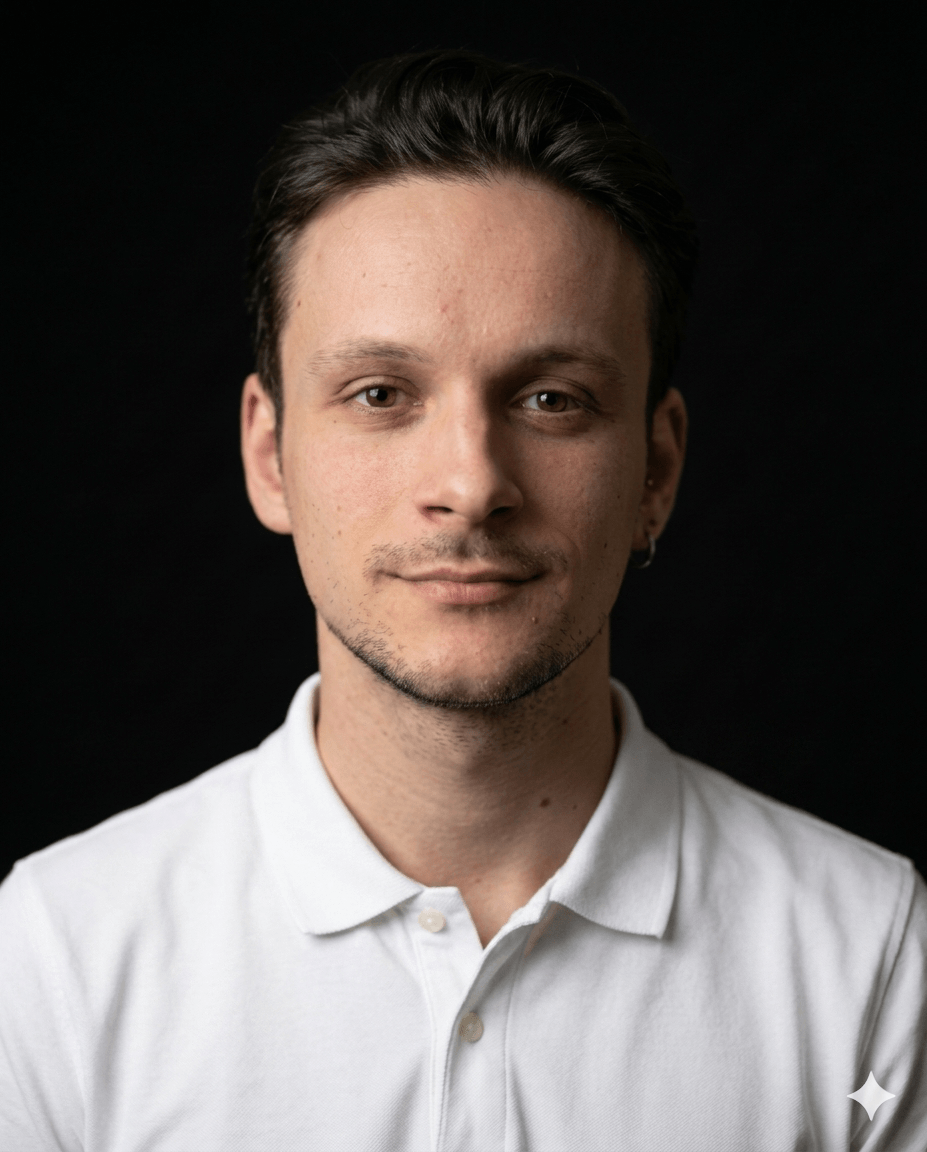
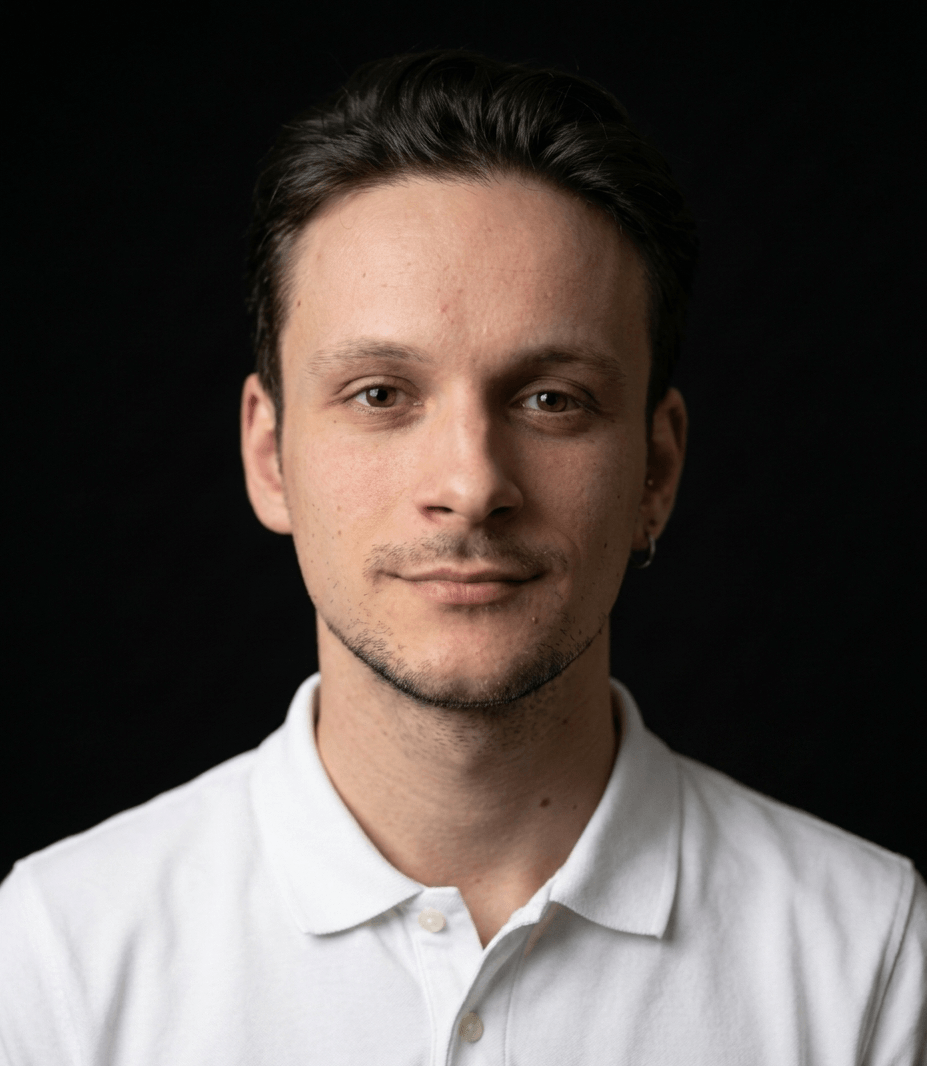
up

Changed region(s): [[0.0, 0.0619, 1.0, 1.0], [0.0302, 0.8049, 0.1812, 1.0]]

diff --git a/src/pages/about/AboutPage.jsx b/src/pages/about/AboutPage.jsx
@@ -10,18 +10,18 @@ export const AboutPage = () => {
             <main className="Main-aboutContent">
                 <img className="Main-aboutImg" src="/imgs/img-about-me.png" alt="" />
                 <p className="Main-aboutText">
-                ¡Hola! Soy Jaime, perfil con experiencia en <strong>tecnología y negocio</strong>, combinando <strong>desarrollo web (stack MERN) y soluciones digitales</strong>.<br />
-                Me caracterizo por un enfoque analítico y orientado a la resolución de problemas. He trabajado directamente con clientes B2B y B2C, entendiendo sus necesidades y proponiendo soluciones digitales adaptadas, lo que me ha dado una visión práctica de cómo la tecnología impacta en procesos y resultados.<br />
-                Interesado en la consultoría digital, aporto una visión técnica combinada con una buena comprensión de las necesidades del cliente y del negocio.</p><br />
+                ¡Hola! Soy Jaime y tengo un perfil profesional con experiencia en <strong>tecnología y negocio</strong>, combinando <strong>desarrollo web (stack MERN) y soluciones digitales</strong>.
+                Me caracterizo por un enfoque analítico y orientado a la resolución de problemas. He trabajado directamente con clientes B2B y B2C, entendiendo sus necesidades y proponiendo soluciones digitales adaptadas, lo que me ha dado una visión práctica de cómo la tecnología impacta en procesos y resultados.<br /><br />
+                <strong>Interesado en la consultoría digital</strong>, aporto una visión técnica combinada con una buena comprensión de las necesidades del cliente y del negocio.</p><br />
                 <div>
                     <p className="Main-aboutTitle">De las ideas al código...</p>
-                    <p className="Main-aboutText">Mi camino profesional comenzó en el ámbito de la creatividad y la comunicación. Tras graduarme en Publicidad y Relaciones Públicas, trabajé en un proyecto de agencia de comunicación, donde descubrí el poder de convertir ideas en marcas. Más tarde, en el CEEI de Castellón, me acerqué al ecosistema startup, entendiendo cómo la tecnología y la estrategia digital pueden transformar negocios desde su base.</p><br />
-                    <p className="Main-aboutText">Mi paso por Declarando Asesores fue clave para desarrollar una visión más analítica y orientada al cliente. Como SDR y Account Executive, aprendí a detectar necesidades reales, ofrecer soluciones y entender el valor de una experiencia digital funcional y bien diseñada. Fue allí donde nació mi interés por crear herramientas y no solo comercializarlas.</p><br />
-                    <p className="Main-aboutText">Ese impulso me llevó a formarme como desarrollador web, combinando mi perfil creativo con habilidades técnicas. En el CEI Valencia aprendí a construir aplicaciones completas, desde la idea y el diseño en Figma hasta el desarrollo en React, NextJS, Express o MongoDB.</p>
-                    <p className="Main-aboutText">Posteriormente, pasé al lado más técnico con mi experiencia en Producción Digital en la agencia WPP Production, donde trabajé en proyectos reales orientados a cliente, consolidando mi perfil entre negocio y tecnología.</p>
-                    <p className="Main-aboutText">En la actualidad, trabajo como Salesforce Marketing Cloud Developer en NATEEVO (grupo VASS) desarrollando soluciones digitales escalables, bien integradas y alineadas con objetivos de cliente en entornos exigentes.</p>
+                    <p className="Main-aboutText">Mi camino profesional comenzó en el ámbito de la creatividad y la comunicación. Tras graduarme en <strong>Publicidad y Relaciones Públicas</strong>, trabajé en un proyecto de agencia de comunicación, donde descubrí el poder de convertir ideas en marcas. Más tarde, en el <strong>Centro Europeo de Empresas e Innovación de Castellón</strong>, me acerqué al ecosistema startup, entendiendo cómo la tecnología y la estrategia digital pueden transformar negocios desde su base.</p><br />
+                    <p className="Main-aboutText">Mi paso por <strong>Declarando Asesores</strong> fue clave para desarrollar una visión más analítica y orientada al cliente. Como SDR y Account Executive, aprendí a detectar necesidades reales, ofrecer soluciones y entender el valor de una experiencia digital funcional y bien diseñada. Fue allí donde nació mi interés por crear herramientas y no solo comercializarlas.</p><br />
+                    <p className="Main-aboutText">Ese impulso me llevó a formarme como desarrollador web, combinando mi perfil creativo con habilidades técnicas. En el <strong>Centro de Estudios e Innovación de Valencia</strong> aprendí a construir aplicaciones completas, desde la idea y el diseño en Figma hasta el desarrollo en React, NextJS, Express o MongoDB.</p><br />
+                    <p className="Main-aboutText">Posteriormente, pasé al lado más técnico con mi experiencia en <strong>Producción Digital en la agencia WPP Production</strong>, donde trabajé en proyectos reales orientados a cliente, consolidando mi perfil entre negocio y tecnología.</p><br />
+                    <p className="Main-aboutText">En la actualidad, trabajo como <strong>Salesforce Marketing Cloud Developer en NATEEVO (grupo VASS)</strong> desarrollando soluciones digitales escalables, bien integradas y alineadas con objetivos de cliente en entornos exigentes.</p>
                 </div>
-                <p className="Main-aboutAction">Si has llegado hasta aquí y tienes alguna propuesta, <a className="Link-action" href="mailto:jaime.nebot.colom@gmail.com" title="Enviar correo">¿por qué no hablamos? </a>🚀</p>
+                <p className="Main-aboutAction">Si tienes alguna propuesta, <a className="Link-action" href="mailto:jaime.nebot.colom@gmail.com" title="Enviar correo">¿por qué no hablamos? </a>🚀</p>
 
             </main>
             <Footer />
